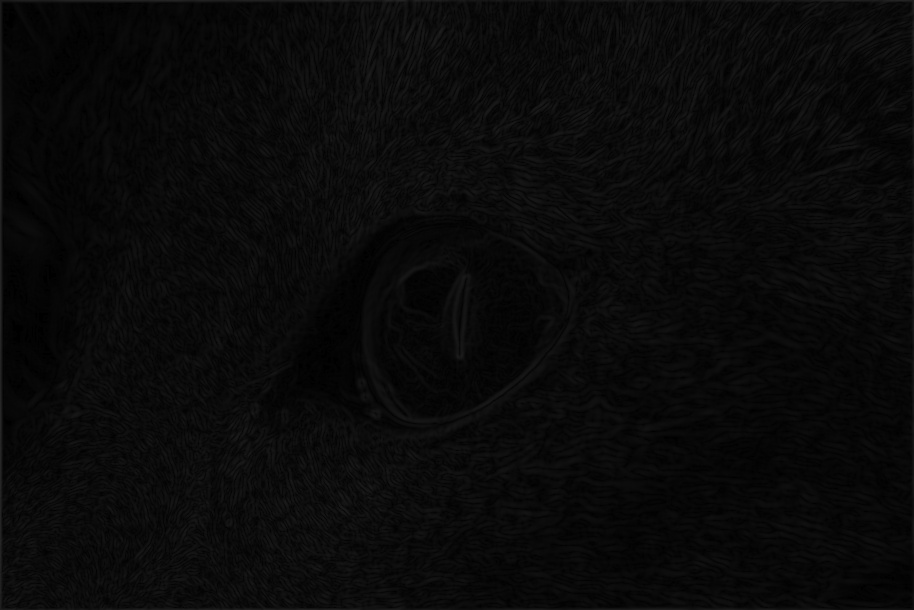
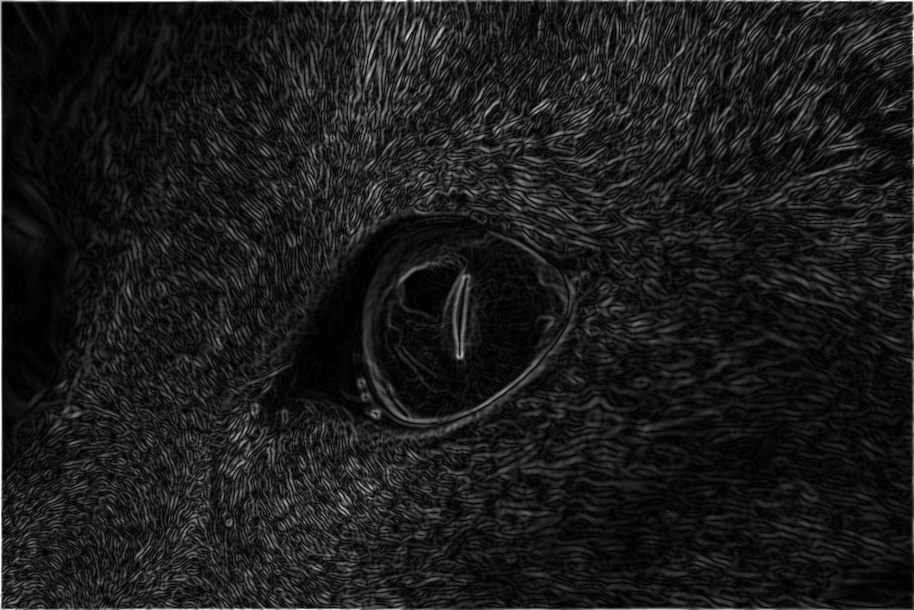
feat: Complete hw2
- Implement solution for problem 7. Repeated box filtering

diff --git a/hw2/assignment2.py b/hw2/assignment2.py
@@ -125,7 +125,6 @@ class ComputerVisionAssignment():
 
       image = self.gussian_operation(image, soblel_kernel, gussian_kernel)
       
-      print(image.dtype)
       image = 2 * image + 127
       image = np.rint(image)
       image = np.clip(image, 0, 255).astype(np.uint8)
@@ -192,16 +191,24 @@ class ComputerVisionAssignment():
 
     return self.scipy_smooth
 
-  #def box_filter(self, num_repetitions):
-  #  # Define box filter
-  #  box_filter = [1, 1, 1]
-  #  out = [1, 1, 1]
+  def box_filter(self, num_repetitions):
+    # Define box filter
+    box_filter = [1, 1, 1]
+    out = [1, 1, 1]
 
-  #  for _ in range(num_repetitions):
-  #    # Perform 1D conlve
-  #    out =
+    for _ in range(num_repetitions):
+      # Perform 1D conlve
+      convolution_result = np.zeros(len(out) + len(box_filter) - 1, dtype=np.float32)
 
-  #  return out
+      for j in range(len(convolution_result)):
+        for k in range(len(box_filter)):
+          idx = j + k + 1 - len(box_filter)
+
+          if idx >= 0 and idx < len(out):
+            convolution_result[j] += out[idx] * box_filter[k] 
+
+      out = convolution_result
+    return out
 
 if __name__ == "__main__":
     ass = ComputerVisionAssignment()
@@ -224,4 +231,4 @@ if __name__ == "__main__":
     scipy_convolve = ass.scipy_convolve()
 
     # # Task 7 Repeated box filtering
-    # box_filter = ass.box_filter(5)
+    box_filter = ass.box_filter(5)
